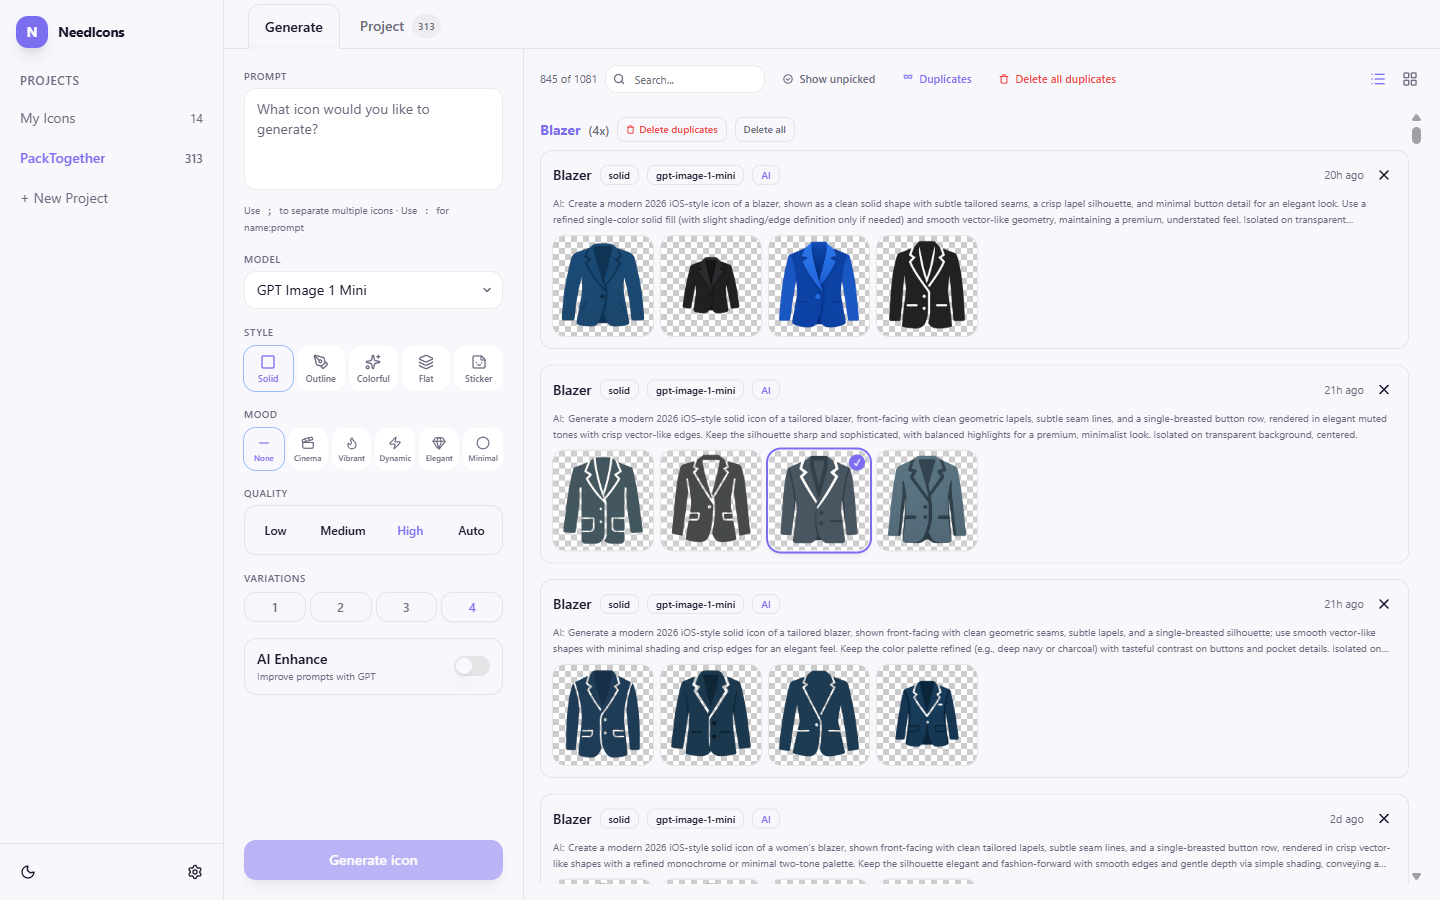
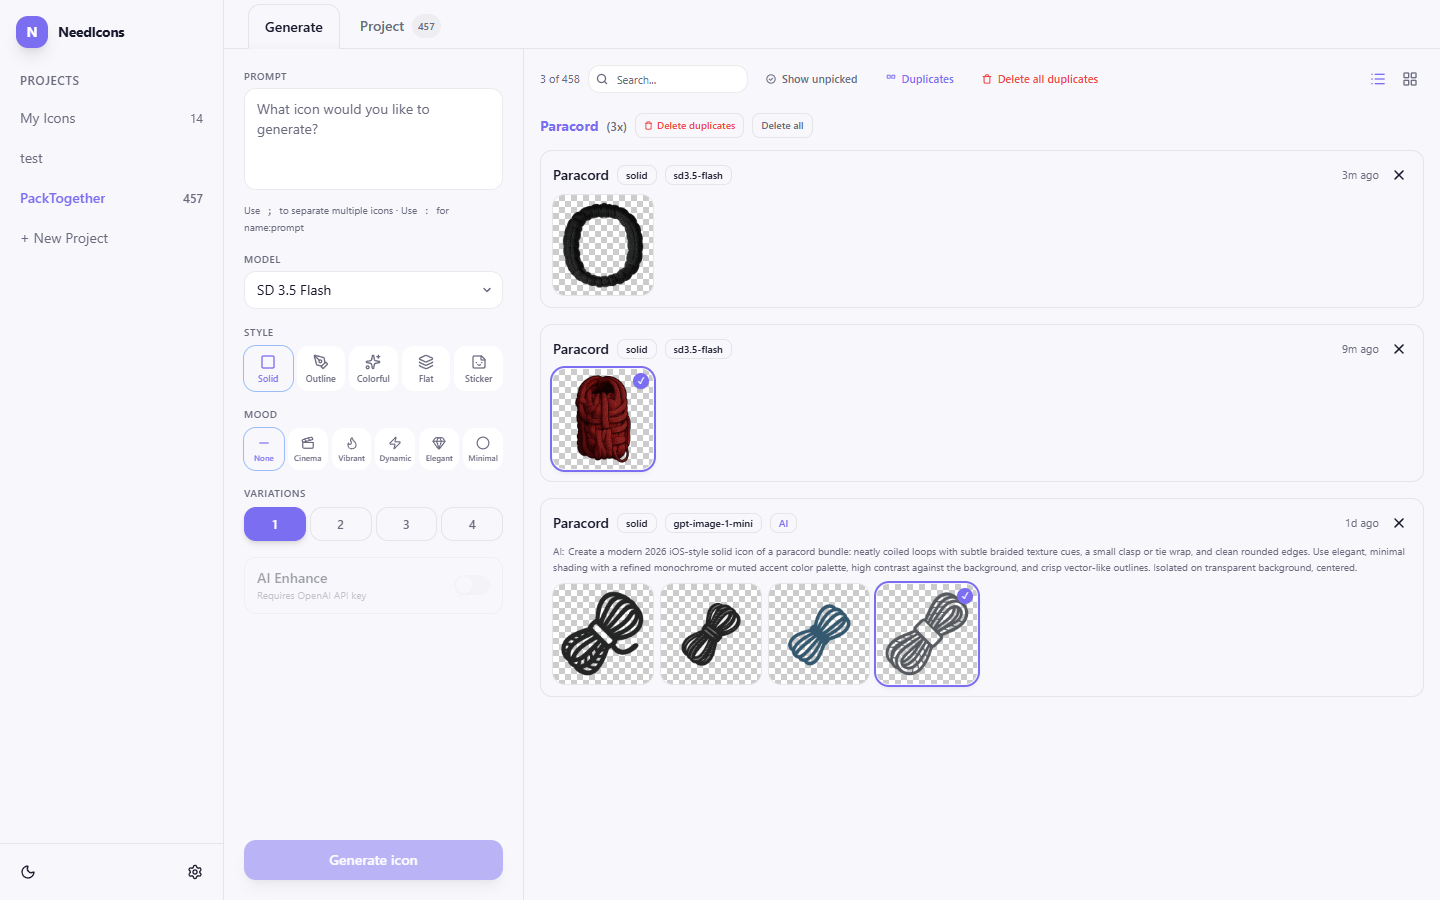
docs: new README and screenshots for v0.5.0 multi-provider

diff --git a/README.md b/README.md
@@ -1,34 +1,34 @@
 # NeedIcons
 
-AI-powered icon pack generator. Create, refine, and export professional icon sets using OpenAI's image generation models.
+AI-powered icon pack generator. Create, refine, and export professional icon sets using multiple AI providers.
 
 ![Generate Page](docs/screenshots/generate-page.png)
 
 ## Features
 
-- **AI Icon Generation** -- Generate icons from text prompts using GPT Image 1.5, GPT Image Mini, or DALL-E models
-- **AI Prompt Enhancement** -- Automatically expand simple prompts into detailed icon descriptions using GPT-5.4-nano
-- **AI Refine** -- Edit generated icons with natural language instructions via OpenAI's Responses API
-- **Batch Generation** -- Generate hundreds of icons at once with concurrent API calls and live progress tracking
-- **Generation Queue** -- Persistent SQLite-backed queue tracks per-icon status; failed items can be retried manually
-- **Duplicate Detection** -- Warns before generating icons with names that already exist; filter, group, and clean up duplicates
-- **Multiple Styles** -- Solid, Outline, Colorful, Flat, Sticker with mood modifiers (Minimal, Cinematic, Energetic, Bold, Elegant, Soft)
-- **Variation Control** -- Choose 1-4 variations per icon; click to pick favorites, hover to refine
-- **Project Management** -- Organize icons into projects with pick/unpick workflow
-- **Search & Filter** -- Search by name/prompt, filter unpicked or duplicate entries, grouped duplicate view with per-group actions
+- **Multi-Provider Support** -- Generate with OpenAI (GPT Image 1.5, GPT Image Mini) or Stability AI (SD 3.5 Flash, Medium, Large Turbo, Large)
+- **Compare Across Models** -- Generate the same icon with different models and compare results side by side
+- **AI Prompt Enhancement** -- Automatically expand prompts into detailed icon descriptions (OpenAI)
+- **AI Refine** -- Edit generated icons with natural language instructions (OpenAI)
+- **Batch Generation** -- Generate hundreds of icons at once with concurrent API calls and live progress
+- **Generation Queue** -- Persistent SQLite-backed queue; failed items can be retried manually
+- **Duplicate Detection** -- Warns before regenerating existing names; filter, group, and clean up duplicates
+- **Multiple Styles** -- Solid, Outline, Colorful, Flat, Sticker with mood modifiers
+- **Variation Control** -- Choose 1-4 variations per icon; click to pick favorites
+- **Search & Filter** -- Search by name/prompt, filter unpicked or duplicate entries with relevance ranking
+- **Background Removal** -- Via Stability AI API (per-icon or bulk) for icons generated without transparency
 - **Multi-Format Export** -- PNG, WebP, SVG in a single ZIP with folder structure
-- **SVG Tracing** -- Raster-to-vector conversion via vtracer with smoothing and scour optimization
-- **Per-Icon Preview** -- Preview any icon in PNG/WebP/SVG with quality settings and file size
+- **SVG Tracing** -- Raster-to-vector via vtracer with smoothing and scour optimization
+- **Per-Icon Preview** -- Preview in PNG/WebP/SVG with quality settings and file size
 - **React/React Native SVG** -- Export SVGs as React JSX or React Native components
-- **Virtualized Lists** -- Handles thousands of icons with constant memory via `@tanstack/react-virtual`
-- **Self-Hosted** -- Runs locally, your API key, your data
+- **Self-Hosted** -- Runs locally, your API keys, your data
 
 ## Quick Start
 
 ### Prerequisites
 
 - **Python 3.11+**
-- **OpenAI API key** with access to image generation models
+- An API key from **OpenAI** and/or **Stability AI**
 
 Node.js is **not required** -- the frontend is pre-built in `frontend/dist/`. For development with hot reload, install Node.js 18+.
 
@@ -55,8 +55,8 @@ Open [http://localhost:8420](http://localhost:8420) (production) or [http://loca
 ### First-Time Setup
 
 1. Go to **Settings** (gear icon in sidebar)
-2. Enter your **OpenAI API key**
-3. Go to **Generate** tab
+2. Enter your **OpenAI** and/or **Stability AI** API key
+3. Go to **Generate** tab -- available models appear based on which keys are configured
 4. Type a prompt and click **Generate**
 
 ![Settings Page](docs/screenshots/settings-page.png)
@@ -74,31 +74,35 @@ house; tree; car; bicycle
 Use `:` for custom prompts per icon:
 
 ```
-house: a cozy cottage with chimney; tree: tall oak tree with leaves
+house: red cottage with chimney; tree: tall oak with leaves
 ```
 
 | Option | Description |
 |--------|-------------|
-| **Model** | GPT Image 1.5 (best quality), GPT Image Mini (faster/cheaper) |
+| **Model** | Choose from available providers -- only models with active API keys are shown |
 | **Style** | Solid, Outline, Colorful, Flat, Sticker |
 | **Mood** | Minimal, Cinematic, Energetic, Bold, Elegant, Soft |
-| **Quality** | Auto, High, Medium, Low |
+| **Quality** | Auto, High, Medium, Low (OpenAI only) |
 | **Variations** | 1-4 variations generated per icon |
-| **AI Enhance** | Rewrites your prompt into a detailed icon description |
+| **AI Enhance** | Rewrites your prompt for better results (requires OpenAI) |
+
+### Comparing Models
+
+Generate the same icon with different models to compare quality and style. Use the duplicates filter to see all generations of the same icon grouped together -- useful for comparing results between OpenAI and Stability AI side by side.
+
+![Duplicates Filter](docs/screenshots/duplicates-filter.png)
 
 ### Picking & Filtering
 
 - **Click** any variation to pick it as your favorite
-- **Hover** to reveal the **Refine** button
-- **Search** by icon name or prompt text
+- **Hover** to reveal the **View** button for detail/refine modal
+- **Search** by icon name or prompt text (results ranked by relevance)
 - **Show unpicked** to find icons without a selection
 - **Show duplicates** to see icons generated multiple times, grouped by name with delete actions
 
-![Duplicates Filter](docs/screenshots/duplicates-filter.png)
+### AI Refine (OpenAI)
 
-### AI Refine
-
-Hover over a variation and click **Refine** to open the editor:
+Hover over a variation and click **View** to open the detail modal. For OpenAI-generated icons, type natural language instructions to refine:
 
 - *"Remove the background"*
 - *"Clean up edges, make it crisp"*
@@ -133,19 +137,27 @@ needicons-MyProject.zip
   manifest.json
 ```
 
+## Providers
+
+| Provider | Models | Transparent BG | AI Enhance | AI Refine |
+|----------|--------|---------------|------------|-----------|
+| **OpenAI** | GPT Image 1.5, GPT Image Mini, DALL-E 3 | Native | Yes | Yes |
+| **Stability AI** | SD 3.5 Flash, Medium, Large Turbo, Large | Via BG removal API | No | No |
+
+Both providers can be active simultaneously -- switch between models per generation.
+
 ## Tech Stack
 
 | Layer | Technology |
 |-------|-----------|
 | **Backend** | Python 3.11+, FastAPI, Uvicorn |
-| **AI** | OpenAI Images API + Responses API |
+| **AI** | OpenAI API, Stability AI API |
 | **Image Processing** | Pillow, NumPy, OpenCV |
 | **SVG** | vtracer, scour |
 | **Storage** | SQLite (WAL mode) |
 | **Frontend** | React 18, TypeScript, Vite |
 | **Styling** | Tailwind CSS |
 | **Components** | shadcn/ui, Radix UI, lucide-react |
-| **Virtualization** | @tanstack/react-virtual |
 | **Data Fetching** | TanStack Query |
 
 ## Configuration
